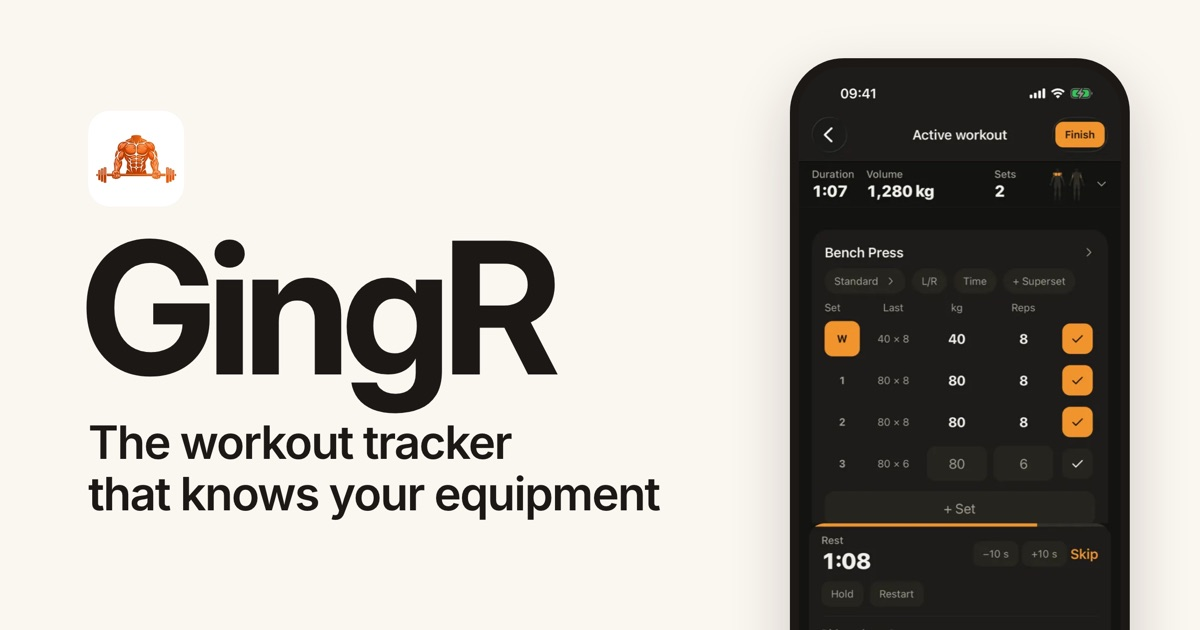
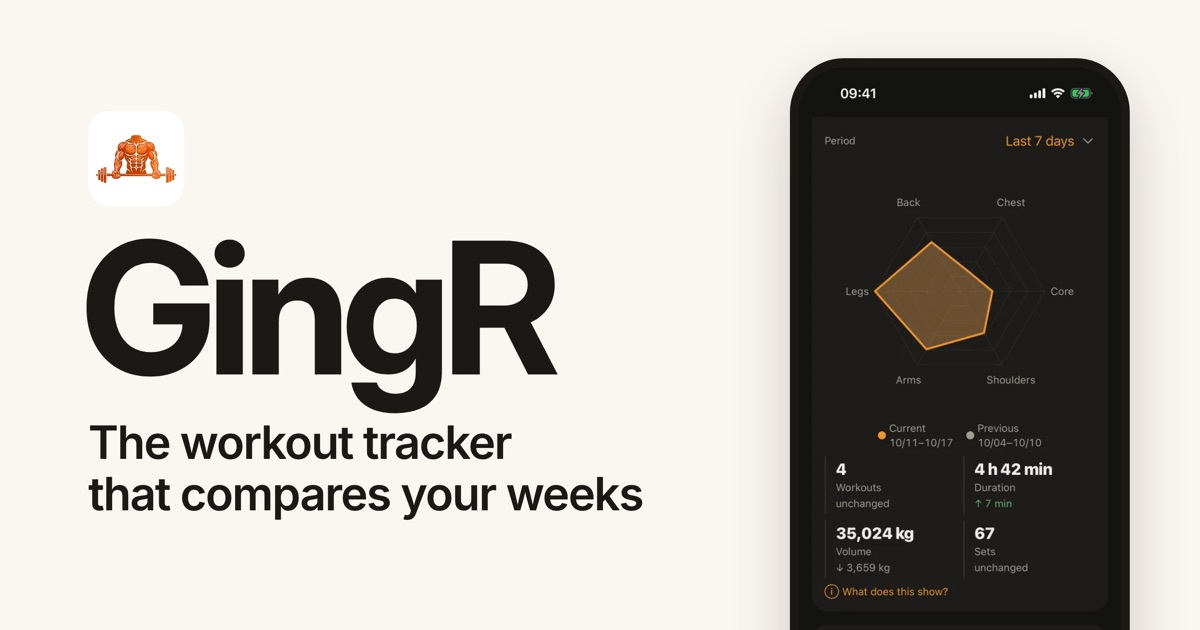
GingR-Seite: Analyse und Wochenvergleich statt Geräte-Motto
Leon hat am 17.10. das Geräte-Motto („50 kg am dünnen Kabel…“,
„das Trainingslog, das deine Geräte kennt“) verworfen. Die Seite
verkauft GingR jetzt über Analyse, Wochenvergleich, Heatmap und Freunde,
passend zum LinkedIn-Post.

- Kopfzeile, Galerie, großer Satz, Meta, og:title/og:description/og:image:alt
  und JSON-LD neu, DE und EN
- Galerie: Analyse, Diese Woche, Freunde, Loggen (Ränge und KI raus)
- Teilen-Bilder neu gerendert mit neuer Zeile und Analyse-Telefon,
  og:image mit ?v=20261017, damit Vorschauen neu geholt werden

diff --git a/en/gingr/index.html b/en/gingr/index.html
@@ -6,7 +6,7 @@
     <meta name="viewport" content="width=device-width, initial-scale=1">
 
     <title>GingR: the workout log for iPhone and Android | ly-webstudio</title>
-    <meta name="description" content="GingR is a workout log for iPhone and Android: records, friends, AI suggestions and an app that knows the equipment in your gym. An app by ly-webstudio UG (haftungsbeschränkt).">
+    <meta name="description" content="GingR analyses your training and compares any period with the one before. Plus a muscle heatmap and friends by invite code. Free with no ads, for iPhone and Android. An app by ly-webstudio UG (haftungsbeschränkt).">
     <meta name="author" content="ly-webstudio UG (haftungsbeschränkt)">
     <meta name="robots" content="index, follow, max-image-preview:large">
     <meta name="theme-color" content="#131311">
@@ -18,13 +18,13 @@
 
     <meta property="og:type" content="website">
     <meta property="og:url" content="https://www.ly-webstudio.de/en/gingr/">
-    <meta property="og:title" content="GingR: the workout log that knows your gear">
-    <meta property="og:description" content="For iPhone and Android. Records, friends, AI suggestions. An app by ly-webstudio UG (haftungsbeschränkt).">
-    <meta property="og:image" content="https://www.ly-webstudio.de/assets/img/gingr-en-teilen.jpg">
+    <meta property="og:title" content="GingR: Was this week better than last week?">
+    <meta property="og:description" content="For iPhone and Android. Week comparison, muscle heatmap, friends. Free, no ads. An app by ly-webstudio UG (haftungsbeschränkt).">
+    <meta property="og:image" content="https://www.ly-webstudio.de/assets/img/gingr-en-teilen.jpg?v=20261017">
     <meta property="og:image:type" content="image/jpeg">
     <meta property="og:image:width" content="1200">
     <meta property="og:image:height" content="630">
-    <meta property="og:image:alt" content="GingR, the workout tracker that knows your equipment. Next to it a running workout: bench press with three sets ticked off and the rest timer running">
+    <meta property="og:image:alt" content="GingR, the workout tracker that compares your weeks. Next to it the analytics: the last 7 days against the week before, with workouts, duration, volume and sets">
     <meta property="og:locale" content="en_US">
     <meta property="og:locale:alternate" content="de_DE">
     <meta name="twitter:card" content="summary_large_image">
@@ -56,8 +56,8 @@
          srcset="/assets/img/gingr-symbol-96.webp 96w, /assets/img/gingr-symbol-192.webp 192w"
          sizes="88px" width="96" height="96" alt="The app icon: an orange torso holding a barbell">
     <h1 id="title">GingR</h1>
-    <p class="held-satz">The workout log that knows your gear.</p>
-    <p class="held-info">For iPhone and Android. Free, no ads, no account needed.</p>
+    <p class="held-satz">The workout log that compares your weeks.</p>
+    <p class="held-info">For iPhone and Android. Free, no ads, works offline without an account.</p>
     <ul class="laeden" aria-label="Download">
       <li><a class="laden" href="https://apps.apple.com/app/gingr-gym-workout-tracker/id6799707730">App Store</a></li>
       <li><a class="laden" href="https://play.google.com/store/apps/details?id=com.lywebstudio.ginger">Google Play</a></li>
@@ -67,43 +67,43 @@
 
   <section aria-labelledby="features-title">
     <h2 class="vh" id="features-title">What GingR does</h2>
-    <!-- Screenshots: GymApp assets/store/screenshots-en-2026-10 (sample data,
-         no real people), as WebP at 300 and 600 px wide. -->
+    <!-- Screenshots: GymApp assets/store/screenshots-en-2026-10, the analytics one from the
+         LinkedIn launch on 17.10. (sample data, no real people), as WebP at 300 and 600 px wide. -->
     <ul class="galerie">
       <li><figure class="tafel">
-        <img src="/assets/img/gingr-en-loggen-300.webp"
-             srcset="/assets/img/gingr-en-loggen-300.webp 300w, /assets/img/gingr-en-loggen-600.webp 600w"
+        <img src="/assets/img/gingr-en-analyse-300.webp"
+             srcset="/assets/img/gingr-en-analyse-300.webp 300w, /assets/img/gingr-en-analyse-600.webp 600w"
              sizes="(min-width: 900px) 280px, 68vw" width="300" height="652" fetchpriority="high"
-             alt="A workout in progress: bench press at 80 kg × 8, last time's numbers alongside, the rest timer at 1:23 below">
-        <figcaption><h3>Logging</h3><p>Last time sits right beside it, the rest timer runs along, and GingR adds the bar for you.</p></figcaption>
+             alt="Analytics for the last 7 days against the week before: 4 workouts, unchanged; 4 h 42 min, up 7 min; 35,024 kg volume, down 3,659 kg; 67 sets, unchanged. Above it the split across muscle groups as a radar">
+        <figcaption><h3>Analytics</h3><p>Pick a period from 3&nbsp;days to a year. GingR compares it with the one before: workouts, time, volume and sets.</p></figcaption>
       </figure></li>
       <li><figure class="tafel">
-        <img src="/assets/img/gingr-en-raenge-300.webp"
-             srcset="/assets/img/gingr-en-raenge-300.webp 300w, /assets/img/gingr-en-raenge-600.webp 600w"
+        <img src="/assets/img/gingr-en-woche-300.webp"
+             srcset="/assets/img/gingr-en-woche-300.webp 300w, /assets/img/gingr-en-woche-600.webp 600w"
              sizes="(min-width: 900px) 280px, 68vw" width="300" height="652" loading="lazy"
-             alt="Ranks on the body: chest in gold, shoulders in platinum, and below what the next rank takes">
-        <figcaption><h3>Records</h3><p>Every record lights up in gold. Each muscle group earns a rank, from Bronze to Diamond.</p></figcaption>
+             alt="Home: this week on the body, next to it the sets per muscle group, chest 10, back 14, legs 14">
+        <figcaption><h3>This week</h3><p>Home shows how many sets each muscle group got this week.</p></figcaption>
       </figure></li>
       <li><figure class="tafel">
         <img src="/assets/img/gingr-en-freunde-300.webp"
              srcset="/assets/img/gingr-en-freunde-300.webp 300w, /assets/img/gingr-en-freunde-600.webp 600w"
              sizes="(min-width: 900px) 280px, 68vw" width="300" height="652" loading="lazy"
              alt="Friends: the week as a podium with three people, below it a workout by Lara">
-        <figcaption><h3>Friends</h3><p>Only people you invite with a code. You see each other's workouts and compete every week.</p></figcaption>
+        <figcaption><h3>Friends</h3><p>Only people you invite with a code. You see each other's week and who is ahead. Friends need an account.</p></figcaption>
       </figure></li>
       <li><figure class="tafel">
-        <img src="/assets/img/gingr-en-katalog-300.webp"
-             srcset="/assets/img/gingr-en-katalog-300.webp 300w, /assets/img/gingr-en-katalog-600.webp 600w"
+        <img src="/assets/img/gingr-en-loggen-300.webp"
+             srcset="/assets/img/gingr-en-loggen-300.webp 300w, /assets/img/gingr-en-loggen-600.webp 600w"
              sizes="(min-width: 900px) 280px, 68vw" width="300" height="652" loading="lazy"
-             alt="The exercise catalogue with 500 exercises and filters by equipment and muscle">
-        <figcaption><h3>AI suggestions</h3><p>Say what you want to train. The AI picks fitting exercises from the 500 in the catalogue, and your weights stay with you.</p></figcaption>
+             alt="A workout in progress: bench press at 80 kg × 8, last time's numbers alongside, the rest timer at 1:23 below">
+        <figcaption><h3>Logging</h3><p>You enter weight and reps, set by set. Every analysis is built from that.</p></figcaption>
       </figure></li>
     </ul>
   </section>
 
   <section class="satz" aria-labelledby="claim-title">
-    <h2 id="claim-title">50&nbsp;kg on a thin cable is not 50&nbsp;kg on a thick one.</h2>
-    <p>GingR keeps every machine and every side apart, each with its own history and its own records.</p>
+    <h2 id="claim-title">Was this week better than last week?</h2>
+    <p>GingR answers that from the sets you log. A heatmap colours 17&nbsp;muscles by how much work they got. When a lift has stalled for weeks, its page says so.</p>
   </section>
 
   <section class="firma" aria-label="Publisher">
@@ -140,11 +140,11 @@
       "name": "GingR",
       "alternateName": "GingR: Gym Workout Tracker",
       "url": "https://www.ly-webstudio.de/en/gingr/",
-      "description": "A workout log for iPhone and Android that knows the equipment in your gym: records, ranks, friends and AI suggestions.",
+      "description": "A workout log for iPhone and Android that compares any period with the one before. Plus a muscle heatmap and friends by invite code.",
       "applicationCategory": "HealthApplication",
       "operatingSystem": "iOS, Android",
       "inLanguage": ["en", "de"],
-      "image": "https://www.ly-webstudio.de/assets/img/gingr-en-loggen-600.webp",
+      "image": "https://www.ly-webstudio.de/assets/img/gingr-en-analyse-600.webp",
       "author": { "@id": "https://www.ly-webstudio.de/#organisation" },
       "publisher": { "@id": "https://www.ly-webstudio.de/#organisation" },
       "offers": { "@type": "Offer", "price": "0", "priceCurrency": "EUR" },

diff --git a/gingr/index.html b/gingr/index.html
@@ -6,7 +6,7 @@
     <meta name="viewport" content="width=device-width, initial-scale=1">
 
     <title>GingR: das Trainingslog für iPhone und Android | ly-webstudio</title>
-    <meta name="description" content="GingR ist ein Trainingslog für iPhone und Android: Rekorde, Freunde, KI-Vorschläge und eine App, die die Geräte im Studio kennt. Eine App der ly-webstudio UG (haftungsbeschränkt).">
+    <meta name="description" content="GingR wertet dein Training aus und vergleicht jeden Zeitraum mit dem davor. Dazu Muskel-Heatmap und Freunde per Einladungscode. Kostenlos und ohne Werbung, für iPhone und Android. Eine App der ly-webstudio UG (haftungsbeschränkt).">
     <meta name="author" content="ly-webstudio UG (haftungsbeschränkt)">
     <meta name="robots" content="index, follow, max-image-preview:large">
     <meta name="theme-color" content="#131311">
@@ -18,13 +18,13 @@
 
     <meta property="og:type" content="website">
     <meta property="og:url" content="https://www.ly-webstudio.de/gingr/">
-    <meta property="og:title" content="GingR: das Trainingslog, das deine Geräte kennt">
-    <meta property="og:description" content="Für iPhone und Android. Rekorde, Freunde, KI-Vorschläge. Eine App der ly-webstudio UG (haftungsbeschränkt).">
-    <meta property="og:image" content="https://www.ly-webstudio.de/assets/img/gingr-teilen.jpg">
+    <meta property="og:title" content="GingR: War diese Woche besser als die letzte?">
+    <meta property="og:description" content="Für iPhone und Android. Wochenvergleich, Muskel-Heatmap, Freunde. Kostenlos, ohne Werbung. Eine App der ly-webstudio UG (haftungsbeschränkt).">
+    <meta property="og:image" content="https://www.ly-webstudio.de/assets/img/gingr-teilen.jpg?v=20261017">
     <meta property="og:image:type" content="image/jpeg">
     <meta property="og:image:width" content="1200">
     <meta property="og:image:height" content="630">
-    <meta property="og:image:alt" content="GingR, der Trainings-Tracker, der deine Geräte kennt. Daneben das laufende Workout: Bankdrücken mit drei abgehakten Sätzen und laufender Pause">
+    <meta property="og:image:alt" content="GingR, der Trainings-Tracker, der deine Wochen vergleicht. Daneben die Analyse: der aktuelle Zeitraum gegen den davor, mit Workouts, Dauer, Volumen und Sätzen">
     <meta property="og:locale" content="de_DE">
     <meta property="og:locale:alternate" content="en_US">
     <meta name="twitter:card" content="summary_large_image">
@@ -56,8 +56,8 @@
          srcset="/assets/img/gingr-symbol-96.webp 96w, /assets/img/gingr-symbol-192.webp 192w"
          sizes="88px" width="96" height="96" alt="Das Symbol der App: ein orangefarbener Oberkörper mit Langhantel">
     <h1 id="titel">GingR</h1>
-    <p class="held-satz">Das Trainingslog, das deine Geräte kennt.</p>
-    <p class="held-info">Für iPhone und Android. Kostenlos, ohne Werbung, auch ohne Konto.</p>
+    <p class="held-satz">Das Trainingslog, das deine Wochen vergleicht.</p>
+    <p class="held-info">Für iPhone und Android. Kostenlos, ohne Werbung, offline und ohne Konto nutzbar.</p>
     <ul class="laeden" aria-label="Herunterladen">
       <li><a class="laden" href="https://apps.apple.com/de/app/gingr-gym-workout-tracker/id6799707730">App Store</a></li>
       <li><a class="laden" href="https://play.google.com/store/apps/details?id=com.lywebstudio.ginger">Google Play</a></li>
@@ -71,39 +71,39 @@
          keine echten Personen), auf 300 und 600 px Breite als WebP. -->
     <ul class="galerie">
       <li><figure class="tafel">
-        <img src="/assets/img/gingr-loggen-300.webp"
-             srcset="/assets/img/gingr-loggen-300.webp 300w, /assets/img/gingr-loggen-600.webp 600w"
+        <img src="/assets/img/gingr-analyse-300.webp"
+             srcset="/assets/img/gingr-analyse-300.webp 300w, /assets/img/gingr-analyse-600.webp 600w"
              sizes="(min-width: 900px) 280px, 68vw" width="300" height="652" fetchpriority="high"
-             alt="Laufendes Workout: Bankdrücken mit 80 kg × 8, daneben die Werte vom letzten Mal, darunter die Pause mit 1:23">
-        <figcaption><h3>Loggen</h3><p>Das letzte Mal steht daneben, die Pause läuft mit, die Stange rechnet GingR selbst dazu.</p></figcaption>
+             alt="Analyse der letzten 90 Tage gegen die 90 Tage davor: Workouts, Dauer, Volumen und Sätze mit dem Unterschied darunter, oben die Verteilung auf die Muskelgruppen als Netz">
+        <figcaption><h3>Analyse</h3><p>Wähl einen Zeitraum von 3&nbsp;Tagen bis zu einem Jahr. GingR vergleicht ihn mit dem davor: Workouts, Zeit, Volumen und Sätze.</p></figcaption>
       </figure></li>
       <li><figure class="tafel">
-        <img src="/assets/img/gingr-raenge-300.webp"
-             srcset="/assets/img/gingr-raenge-300.webp 300w, /assets/img/gingr-raenge-600.webp 600w"
+        <img src="/assets/img/gingr-woche-300.webp"
+             srcset="/assets/img/gingr-woche-300.webp 300w, /assets/img/gingr-woche-600.webp 600w"
              sizes="(min-width: 900px) 280px, 68vw" width="300" height="652" loading="lazy"
-             alt="Ränge am Körper: Brust in Gold, Schultern in Platin, darunter was für den nächsten Rang fehlt">
-        <figcaption><h3>Rekorde</h3><p>Jeder Rekord leuchtet golden auf. Pro Muskelgruppe gibt es einen Rang, von Bronze bis Diamant.</p></figcaption>
+             alt="Startseite: diese Woche am Körper, daneben die Sätze pro Muskelgruppe, Brust 10, Rücken 14, Beine 14">
+        <figcaption><h3>Diese Woche</h3><p>Die Startseite zeigt, wie viele Sätze jede Muskelgruppe diese Woche bekommen hat.</p></figcaption>
       </figure></li>
       <li><figure class="tafel">
         <img src="/assets/img/gingr-freunde-300.webp"
              srcset="/assets/img/gingr-freunde-300.webp 300w, /assets/img/gingr-freunde-600.webp 600w"
              sizes="(min-width: 900px) 280px, 68vw" width="300" height="652" loading="lazy"
              alt="Freunde: Wochenstand als Podium mit drei Personen, darunter ein Workout von Lara">
-        <figcaption><h3>Freunde</h3><p>Nur Leute, die du per Code einlädst. Ihr seht eure Workouts und messt euch jede Woche.</p></figcaption>
+        <figcaption><h3>Freunde</h3><p>Nur Leute, die du per Code einlädst. Ihr seht eure Woche und wer vorn liegt. Dafür braucht ihr ein Konto.</p></figcaption>
       </figure></li>
       <li><figure class="tafel">
-        <img src="/assets/img/gingr-katalog-300.webp"
-             srcset="/assets/img/gingr-katalog-300.webp 300w, /assets/img/gingr-katalog-600.webp 600w"
+        <img src="/assets/img/gingr-loggen-300.webp"
+             srcset="/assets/img/gingr-loggen-300.webp 300w, /assets/img/gingr-loggen-600.webp 600w"
              sizes="(min-width: 900px) 280px, 68vw" width="300" height="652" loading="lazy"
-             alt="Übungskatalog mit 500 Übungen und Filtern nach Gerät und Muskel">
-        <figcaption><h3>KI&#8209;Vorschläge</h3><p>Sag, was du trainieren willst. Die KI sucht passende Übungen aus 500 im Katalog, deine Gewichte bleiben bei dir.</p></figcaption>
+             alt="Laufendes Workout: Bankdrücken mit 80 kg × 8, daneben die Werte vom letzten Mal, darunter die Pause mit 1:23">
+        <figcaption><h3>Loggen</h3><p>Du trägst Gewicht und Wiederholungen ein, Satz für Satz. Daraus entsteht jede Auswertung.</p></figcaption>
       </figure></li>
     </ul>
   </section>
 
   <section class="satz" aria-labelledby="satz-titel">
-    <h2 id="satz-titel">50&nbsp;kg am dünnen Kabel sind nicht 50&nbsp;kg am dicken.</h2>
-    <p>GingR führt jedes Gerät und jede Seite getrennt, mit eigenem Verlauf und eigenen Rekorden.</p>
+    <h2 id="satz-titel">War diese Woche besser als die letzte?</h2>
+    <p>GingR sagt es dir aus deinen Sätzen. Eine Heatmap färbt 17&nbsp;Muskeln danach, wie viel sie gearbeitet haben. Hängt eine Übung seit Wochen fest, steht das auf ihrer Seite.</p>
   </section>
 
   <section class="firma" aria-label="Herausgeber">
@@ -140,11 +140,11 @@
       "name": "GingR",
       "alternateName": "GingR: Gym Workout Tracker",
       "url": "https://www.ly-webstudio.de/gingr/",
-      "description": "Trainingslog für iPhone und Android, das die Geräte im Studio kennt: Rekorde, Ränge, Freunde und KI-Vorschläge.",
+      "description": "Trainingslog für iPhone und Android, das jeden Zeitraum mit dem davor vergleicht. Dazu Muskel-Heatmap und Freunde per Einladungscode.",
       "applicationCategory": "HealthApplication",
       "operatingSystem": "iOS, Android",
       "inLanguage": ["de", "en"],
-      "image": "https://www.ly-webstudio.de/assets/img/gingr-loggen-600.webp",
+      "image": "https://www.ly-webstudio.de/assets/img/gingr-analyse-600.webp",
       "author": { "@id": "https://www.ly-webstudio.de/#organisation" },
       "publisher": { "@id": "https://www.ly-webstudio.de/#organisation" },
       "offers": { "@type": "Offer", "price": "0", "priceCurrency": "EUR" },

diff --git a/gingr/og-vorlage.html b/gingr/og-vorlage.html
@@ -48,14 +48,14 @@
   <div class="text">
     <div class="symbol"><img src="/assets/img/gingr-symbol-192.webp" alt=""></div>
     <h1>GingR</h1>
-    <p class="satz" id="satz">Der Trainings&#8209;Tracker,<br>der deine Geräte kennt</p>
+    <p class="satz" id="satz">Der Trainings&#8209;Tracker,<br>der deine Wochen vergleicht</p>
   </div>
-  <div class="phone"><img id="bild" src="/assets/img/gingr-loggen-600.webp" alt=""></div>
+  <div class="phone"><img id="bild" src="/assets/img/gingr-analyse-600.webp" alt=""></div>
 <script>
   if (new URLSearchParams(location.search).get('lang') === 'en') {
     document.documentElement.lang = 'en';
-    document.getElementById('satz').innerHTML = 'The workout tracker<br>that knows your equipment';
-    document.getElementById('bild').src = '/assets/img/gingr-en-loggen-600.webp';
+    document.getElementById('satz').innerHTML = 'The workout tracker<br>that compares your weeks';
+    document.getElementById('bild').src = '/assets/img/gingr-en-analyse-600.webp';
   }
 </script>
 </body>
